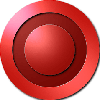
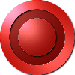
Resize puck and players

diff --git a/models.py b/models.py
@@ -1,5 +1,10 @@
 import arcade.key
 
+PUCK = 50
+PLAYER = 75
+
+START = 0
+
 class Board:
     def __init__(self, x, y):
         self.x = x
@@ -11,6 +16,10 @@ class Puck:
         self.world = world
         self.x = x
         self.y = y
+
+    def start_point(self):
+        self.x = self.world.width//2
+        self.y = self.world.height//2
 
     def direction(self, keyX, keyY):
         if keyX==0 and keyY==0:
@@ -31,15 +40,19 @@ class Puck:
                 self.keyY = -5
 
     def update(self, delta):
-        if self.x+37.5 > self.world.width or self.x-37.5 < 0:
-            self.keyX = self.keyX*-1
-        if self.y-37.5 < 83.5 or self.y+37.5 > 533+83.5:
-            self.keyY = self.keyY*-1
+        if not self.goal():
+            if self.x+PUCK//2 > self.world.width or self.x-PUCK//2 < 0:
+                self.keyX = self.keyX*-1
+            if self.y-PUCK//2 < 83.5 or self.y+PUCK//2 > 533+83.5:
+                self.keyY = self.keyY*-1
         self.x+=self.keyX
         self.y+=self.keyY
 
     def hit(self, other, hit_size):
-        return (abs(self.x-other.x)<=hit_size) and (abs(self.y-other.y)<=hit_size) 
+        return (abs(self.x-other.x)<=hit_size) and (abs(self.y-other.y)<=hit_size)
+
+    def goal(self):
+        return (self.x-37.5 > 800 or self.x+37.5 < 0) and (self.y-37.5 > 216.75 and self.y+37.5 < 483.25)
 
 
 class Player1:
@@ -49,18 +62,22 @@ class Player1:
         self.y = y
         self.key = '0'
 
+    def start_point(self):
+        self.x = 100
+        self.y = self.world.height//2
+
     def direction(self, key):
         self.key = key
 
     def update(self, delta):
         if self.key!=0:
-            if self.key=='w' and self.y < 533+83.5-50:
+            if self.key=='w' and self.y < 533+83.5-PLAYER//2:
                 self.y+=5
-            if self.key=='s' and self.y > 83.5+50:
+            if self.key=='s' and self.y > 83.5+PLAYER//2:
                 self.y-=5
-            if self.key=='a' and self.x > 50:
+            if self.key=='a' and self.x > PLAYER//2:
                 self.x-=5
-            if self.key=='d' and self.x < self.world.width//2-50:
+            if self.key=='d' and self.x < self.world.width//2-PLAYER//2:
                 self.x+=5
 
 
@@ -71,21 +88,24 @@ class Player2:
         self.y = y
         self.key = '0'
 
+    def start_point(self):
+        self.x = self.world.width-100
+        self.y = self.world.height//2
+
     def direction(self, key):
         self.key = key
 
     def update(self, delta):
         if self.key!=0:
-            if self.key=='up' and self.y < 533+83.5-50:
+            if self.key=='up' and self.y < 533+83.5-PLAYER//2:
                 self.y+=5
-            if self.key=='down' and self.y > 83.5+50:
+            if self.key=='down' and self.y > 83.5+PLAYER//2:
                 self.y-=5
-            if self.key=='left' and self.x > self.world.width//2+50:
+            if self.key=='left' and self.x > self.world.width//2+PLAYER//2:
                 self.x-=5
-            if self.key=='right' and self.x < self.world.width-50:
+            if self.key=='right' and self.x < self.world.width-PLAYER//2:
                 self.x+=5
 
-START = 0
 
 class World:
     def __init__(self, width, height):
@@ -104,13 +124,17 @@ class World:
         self.player1.update(delta)
         self.player2.update(delta)
         self.puck.update(delta)
-        if self.puck.hit(self.player1, 75):
+        if self.puck.hit(self.player1, PLAYER//2+PUCK//2):
             self.puck.direction(self.player1.x, self.player1.y)
-        if self.puck.hit(self.player2, 75):
+        if self.puck.hit(self.player2, PLAYER//2+PUCK//2):
             self.puck.direction(self.player2.x, self.player2.y)
-
-        START+=1
-
+        if self.puck.goal():
+            START = 0
+            self.puck.start_point()
+            self.player1.start_point()
+            self.player2.start_point()
+        else:
+            START+=1
 
     def on_key_press(self, key, key_modifiers):
         if key==arcade.key.W:
